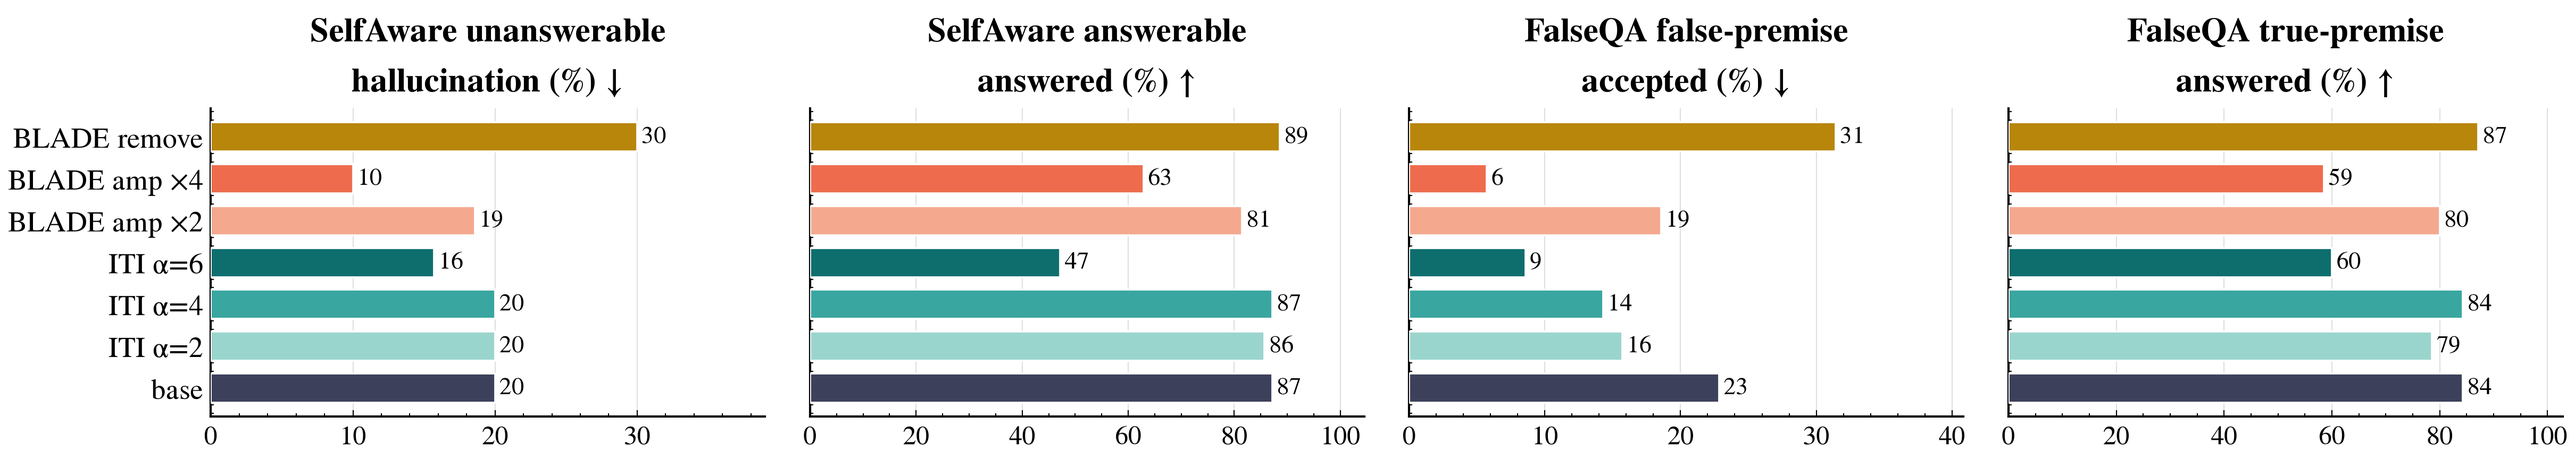
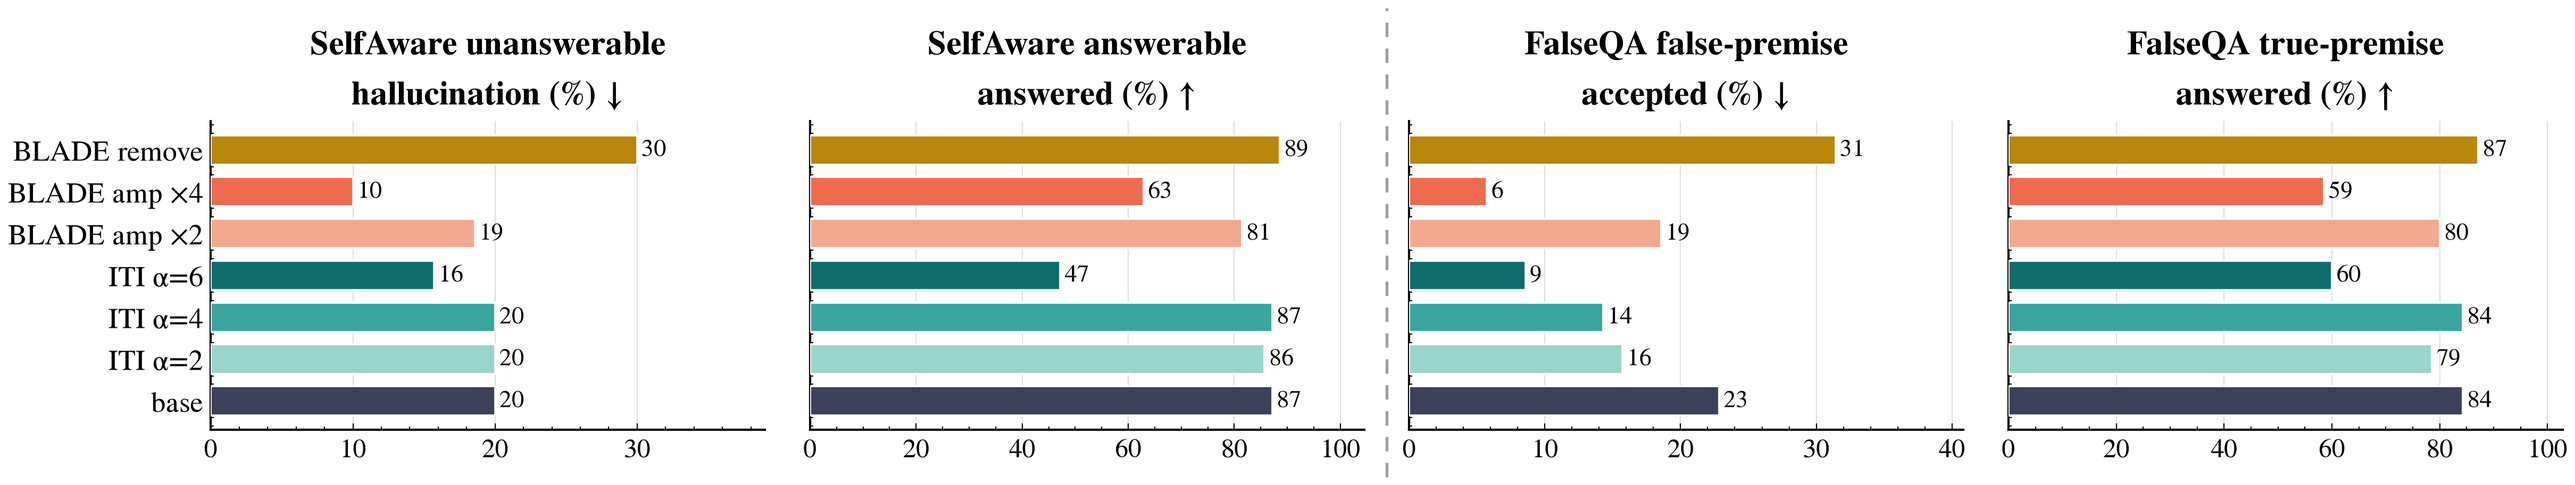
uncertainty_method_cmp: dashed divider between SelfAware and FalseQA panels

diff --git a/scripts/plot_method_comparison.py b/scripts/plot_method_comparison.py
@@ -61,6 +61,11 @@ for ax, (ds, gold, title, low) in zip(axes.flat, PAN):
     ax.xaxis.grid(True, ls="-", lw=0.5, color="#DFDFDF", zorder=0); ax.set_axisbelow(True)
     ax.spines[["top", "right"]].set_visible(False)
 fig.tight_layout()
+# dashed divider between SelfAware (panels 1-2) and FalseQA (panels 3-4)
+import matplotlib.lines as mlines
+xd = (axes[1].get_position().x1 + axes[2].get_position().x0) / 2
+fig.add_artist(mlines.Line2D([xd, xd], [0.04, 0.96], color="#9AA0A6", ls=(0, (5, 4)),
+                             lw=1.3, transform=fig.transFigure))
 for ext in ("png", "pdf"):
     fig.savefig(FIG / f"uncertainty_method_cmp.{ext}", dpi=300, bbox_inches="tight")
 print("saved figures/uncertainty_method_cmp.png / .pdf")
